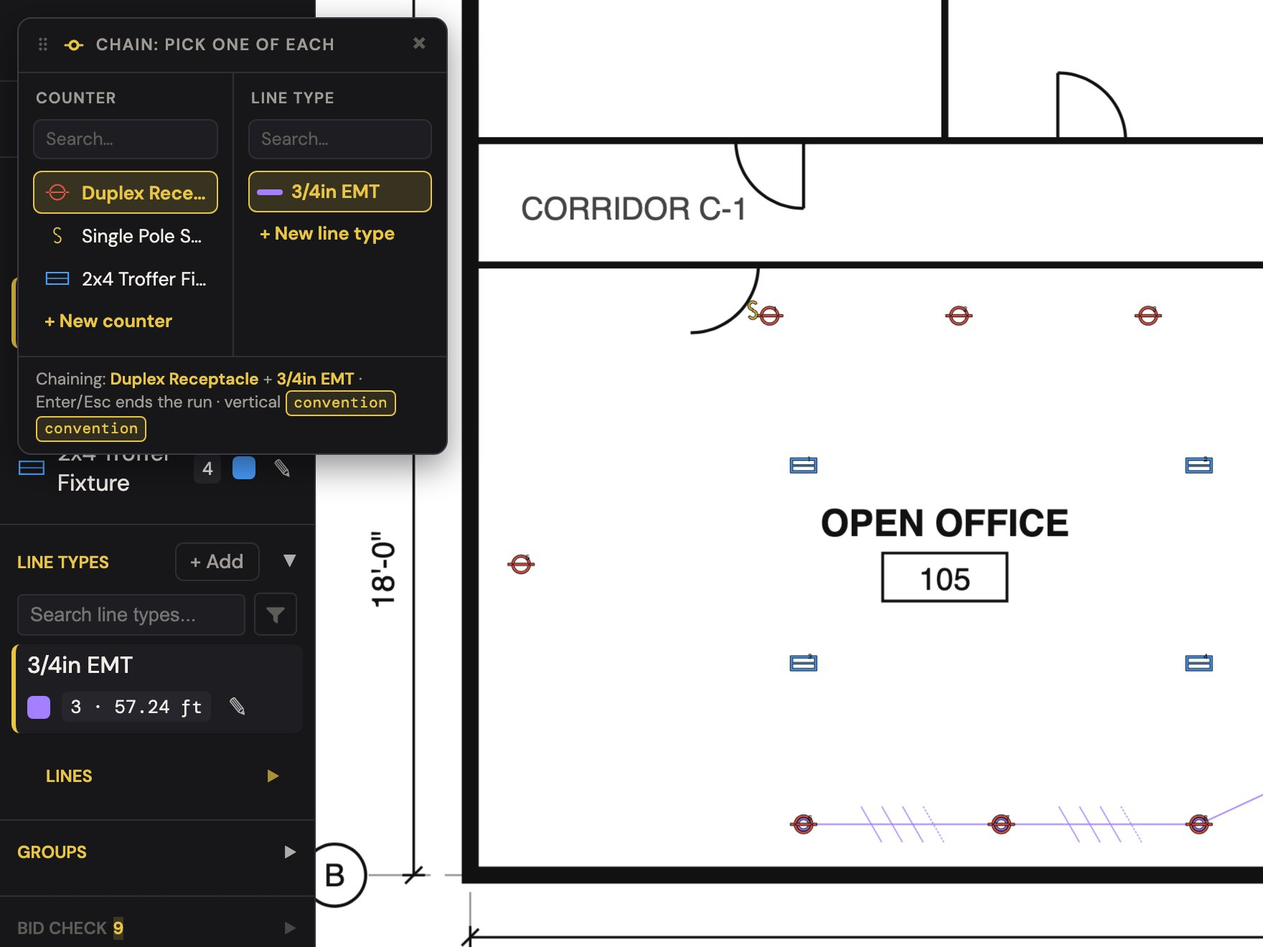
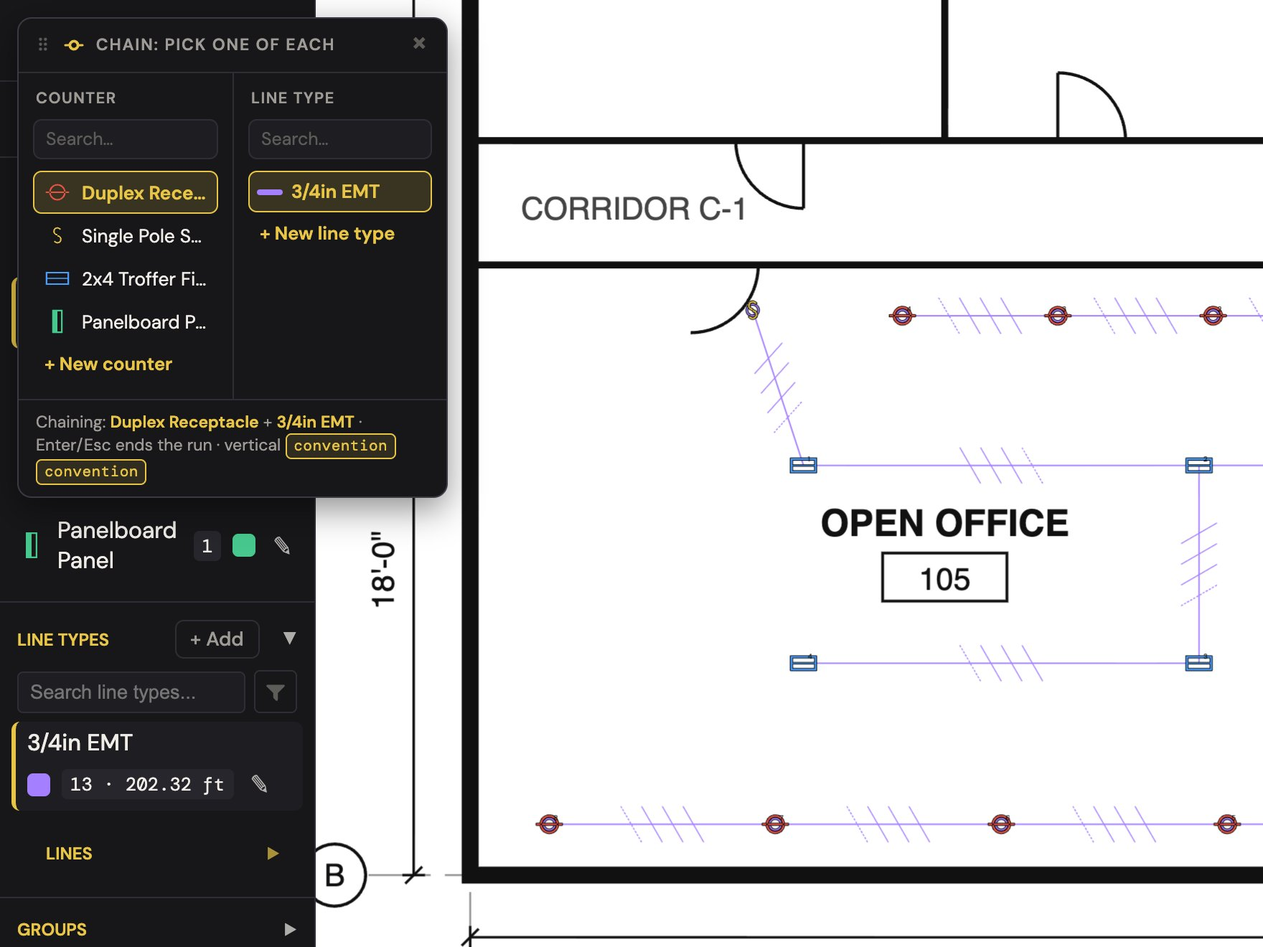
chore(landing): the spotlight frames follow the films again
Punch row SPOTLIGHT-SYNC. build-screenshots.js seeds the electrical and
HVAC films' layouts point for point (three circuits off LP-1; the full
floor off RTU-1, its duct traced with real clicks), the twelve frames
are re-cut with --set spotlight, and six captions in index.html quote
the new frames. No film render.

diff --git a/scripts/build-screenshots.js b/scripts/build-screenshots.js
@@ -979,7 +979,7 @@ async function overseerBoardSetup(page) {
 // the real app per trade, JPEG, a fixed 1200×750 window centred on the surface so the six
 // share one aspect on the page. `--set spotlight` builds them into img/spotlight/. The
 // setups seed what each trade's hero film makes on camera, same names and colours, so the
-// frames match the film above them. HVAC first (the film "Pounds, not feet").
+// frames match the film above them (SPOT-7: point for point, so the captions' numbers are the films').
 // ============================================================================
 // Each spotlight frame is a 4:3 window sized to its surface: `crop: { sel, w, h, ax, ay, ox, oy }`
 // aligns the window's (ax, ay) fraction point to the anchor element's (ax, ay) fraction point
@@ -989,11 +989,42 @@ const CROP_QUICK = { sel: '#counterModal .modal-card', w: 520, h: 390, ax: 0.5, 
 const CROP_BID = { sel: '#bidCheckSection', w: 560, h: 420, ax: 0, ay: 0, ox: -6, oy: -8 };                  // the checklist column, a sliver of plan beside it
 const CSS_BID = '.sidebar{width:420px}';                                                                     // wide enough that a check reads on one line
 
-// The office sheet's rooms and the HVAC main, in PDF points (the film's MAIN_H / rooms).
-const OPEN_OFFICE_105 = { x1: 159, y1: 358, x2: 412.5, y2: 520 };
-const CONFERENCE_103 = { x1: 540, y1: 145, x2: 652.5, y2: 325 };
-const DIFFUSERS = [[200, 457], [268, 457], [336, 457], [404, 457]];
-const MAIN_PTS = [[164, 452], [240, 452], [320, 452], [406, 452]];
+// The office plan is drawn at 12 px/ft and placed at (60, 70) × 0.75 on its sheet: the hero
+// films' B(), so a film's plan coordinates can be quoted here as they stand.
+const PB = (x, y) => [60 + 0.75 * x, 70 + 0.75 * y];
+// The HVAC film's "complete the floor" layout, point for point (SPOTLIGHT-SYNC, 2026-09-20), so
+// the frames quote the film's numbers: six rooms boxed, sixteen 150 CFM diffusers, ONE supply
+// main off RTU-1 (3,000 CFM, 0.8 in. w.g.) down the corridor with a branch into each room, the
+// return main, the stat, and EF-1 on the restrooms.
+const roomRect = (x1, y1, x2, y2) => ({ x1: PB(x1, y1)[0], y1: PB(x1, y1)[1], x2: PB(x2, y2)[0], y2: PB(x2, y2)[1] });
+const CONFERENCE_103 = roomRect(640, 100, 790, 340);
+const ROOMS_H = [
+  { name: 'OPEN OFFICE', type: 'office', color: '#e85447', r: roomRect(132, 384, 470, 600) },
+  { name: 'LOBBY', type: 'office', color: '#4a9eff', r: roomRect(132, 100, 300, 340) },
+  { name: 'OFFICE 101', type: 'office', color: '#e8c547', r: roomRect(300, 100, 470, 340) },
+  { name: 'OFFICE 102', type: 'office', color: '#47c88e', r: roomRect(470, 100, 640, 340) },
+  { name: 'CONFERENCE', type: 'conference', color: '#a47fff', r: CONFERENCE_103 },
+  { name: 'BREAK', type: 'break', color: '#ff7f50', r: roomRect(790, 100, 940, 340) },
+];
+const Y_SUP = 356, Y_RET = 379;   // the supply main and the return main, side by side in the corridor
+const RTU_SPOT = PB(905, Y_SUP);
+const DIFFUSERS = [[420, 502], [340, 502], [260, 502], [180, 502], [228, 292], [228, 192], [397, 292], [397, 192], [567, 292], [567, 192], [727, 300], [727, 228], [727, 156], [877, 300], [877, 228], [877, 162]].map((p) => PB(...p));
+const TRUNK_H = [[905, Y_SUP], [865, Y_SUP], [715, Y_SUP], [555, Y_SUP], [440, Y_SUP], [385, Y_SUP], [216, Y_SUP], [216, 170]].map((p) => PB(...p));
+const TRUNK_STEPS_H = [null, [22, 16], [20, 14], [16, 14], [16, 8], [12, 8]];   // the size past each takeoff (index = the vertex it follows)
+const BRANCHES_H = [
+  { size: [12, 10], pts: [[865, Y_SUP], [865, 150]] },    // Break
+  { size: [12, 10], pts: [[715, Y_SUP], [715, 150]] },    // Conference
+  { size: [12, 8], pts: [[555, Y_SUP], [555, 186]] },     // Office 102
+  { size: [12, 8], pts: [[385, Y_SUP], [385, 186]] },     // Office 101
+  { size: [12, 8], suggest: true, pts: [[440, Y_SUP], [440, 490], [176, 490]] },   // the open office: sized by S, which reads this room's 600 CFM
+].map((b) => ({ ...b, pts: b.pts.map((p) => PB(...p)) }));
+const RETURNS_H = [[690, Y_RET], [780, Y_RET]].map((p) => PB(...p));
+const RETURN_MAIN_H = [[678, Y_RET], [905, Y_RET]].map((p) => PB(...p));
+const STAT_SPOT_H = PB(300, 392);
+const EF_SPOT = PB(905, 508);
+const EXH_GRILLES_H = [[850, 520], [670, 520], [525, 520]].map((p) => PB(...p));
+const EXH_RUN_H = [[905, 508], [513, 508]].map((p) => PB(...p));
+const CAM_FLOOR_H = { x1: 146, y1: 132, x2: 778, y2: 530 };   // the whole floor, the film's rooms camera
 
 // Frame a region of the sheet (PDF points) in the canvas wrapper: the film's camera, so the
 // two trace frames show the open office at the size the hero film shows it.
@@ -1021,71 +1052,124 @@ async function movePlanPt(page, x, y) {
   await page.waitForTimeout(220);
 }
 
-// Trade hvac on the office sheet; OPEN OFFICE 105 boxed (office, 9 ft, deck 12); a 150 CFM
-// diffuser four times on the main's line; the system RTU-1 at 2,000 CFM, active.
-async function hvacBase(page) {
+// Trade hvac on the office sheet, as the film leaves it before the first duct: the rooms boxed
+// (9 ft ceilings, the deck at 12), the systems RTU-1 and EF-1 with their units placed, every
+// diffuser, return, exhaust grille and the stat in its group. `opts.skipRoom` leaves one room
+// unboxed (the Room Size frame drags it for real).
+async function hvacBase(page, opts = {}) {
   await page.evaluate(() => { window.App.pageTextItems && window.App.pageTextItems(0); });
   await page.waitForFunction(() => (window.App.peekPageTextItems(0) || []).length > 0, { timeout: 15000 }).catch(() => {});
-  await page.evaluate(({ pw, room, dif }) => {
+  await page.evaluate(({ pw, o, rooms, rtuAt, dif, rets, stat, efAt, exh }) => {
     const s = window.state, App = window.App, uid = () => App.uid();
     s.pages[0].scale = { pixelsPerUnit: 9, unit: 'ft', label: '1/8" = 1\'' };
     App.setProjectTrade && App.setProjectTrade('hvac', { remember: false, route: 'tour' });
     s.groupsEnabled = true;
     const ann = s.pages[0].canvases[0].annotations;
-    const open = uid();
-    s.rooms.push({ id: open, name: 'OPEN OFFICE 105', color: '#e85447', roomType: 'office', nameFromPlan: true });
-    ann.roomBoxes.push({ id: uid(), x1: room.x1, y1: room.y1, x2: room.x2, y2: room.y2, heightFt: 9, roomId: open });
+    rooms.filter((rm) => rm.name !== o.skipRoom).forEach((rm) => {
+      const id = uid();
+      s.rooms.push({ id, name: rm.name, color: rm.color, roomType: rm.type, nameFromPlan: true });
+      ann.roomBoxes.push({ id: uid(), x1: rm.r.x1, y1: rm.r.y1, x2: rm.r.x2, y2: rm.r.y2, heightFt: 9, roomId: id });
+    });
     const ci = (name) => ((App.getEffectiveCustomIcons() || []).find((i) => i.name === name) || {}).value;
-    const d = { id: uid(), name: '12x12 Supply Diffuser', icon: (App.cfmDefaultIcon && App.cfmDefaultIcon()) || ci('Supply Diffuser') || App.getOrderedIcons()[0].value, color: '#e8c547', cfm: 150 };
-    s.counters.push(d);
-    ann.counterMarkers[d.id] = dif.map(([x, y]) => ({ x, y, id: uid(), group: null }));
-    const rtu = { id: uid(), name: 'RTU-1', color: '#2e86de', equipmentTag: 'RTU-1', capacityCfm: 2000 };
-    s.groups.push(rtu); s.activeGroupId = rtu.id;
-    ann.legend = { x: pw - 210, y: 16, w: 195, h: 60, userResized: false };
+    const icon = (sym, fallback) => (App.tradeIconForType && App.tradeIconForType('hvac', sym)) || ci(fallback || sym) || App.getOrderedIcons()[0].value;
+    const rtu = { id: uid(), name: 'RTU-1', color: '#2e86de', equipmentTag: 'RTU-1', capacityCfm: 3000, espInWg: 0.8 };
+    const ef = { id: uid(), name: 'EF-1', color: '#a47fff', equipmentTag: 'EF-1', capacityCfm: 300 };
+    s.groups.push(rtu, ef); s.activeGroupId = rtu.id;
+    const unit = { id: uid(), name: 'RTU-1', icon: icon('RTU'), color: '#e8c547' };
+    const d = { id: uid(), name: '12x12 Supply Diffuser', icon: (App.cfmDefaultIcon && App.cfmDefaultIcon()) || icon('Supply Diffuser'), color: '#e85447', cfm: 150 };
+    const ret = { id: uid(), name: '24x24 Return Grille', icon: icon('Return Grille'), color: '#4a9eff' };
+    const tstat = { id: uid(), name: 'Thermostat', icon: icon('Thermostat'), color: '#47c88e' };
+    const fan = { id: uid(), name: 'EF-1', icon: icon('RTU'), color: '#a47fff' };
+    const eg = { id: uid(), name: '8" Exhaust Grille', icon: icon('Exhaust Grille'), color: '#a47fff', cfm: 75 };
+    s.counters.push(unit, d, ret, tstat, fan, eg);
+    const marks = (pts, g) => pts.map(([x, y]) => ({ x, y, id: uid(), group: g.id }));
+    ann.counterMarkers[unit.id] = marks([rtuAt], rtu);
+    ann.counterMarkers[d.id] = marks(dif, rtu);
+    ann.counterMarkers[ret.id] = marks(rets, rtu);
+    ann.counterMarkers[tstat.id] = marks([stat], rtu);
+    ann.counterMarkers[fan.id] = marks([efAt], ef);
+    ann.counterMarkers[eg.id] = marks(exh, ef);
+    s.counterSettings = Object.assign({}, s.counterSettings, { size: 40, outlineSize: 2 });
+    // A full floor's legend (devices, rooms, every duct size) grows down over the Break room and
+    // takes the clicks that trace its branch; no HVAC frame is about the legend, so it is off.
+    s.showLegendOverlay = false;
     if (App.setDuctDeckHeight) App.setDuctDeckHeight(12);
+    window.__spot = { rtu: rtu.id, ef: ef.id };
     App.renderPdf(); App.updateUI(); App.renderAnnotations();
-  }, { pw: PLAN_W, room: OPEN_OFFICE_105, dif: DIFFUSERS });
+  }, { pw: PLAN_W, o: opts, rooms: ROOMS_H, rtuAt: RTU_SPOT, dif: DIFFUSERS, rets: RETURNS_H, stat: STAT_SPOT_H, efAt: EF_SPOT, exh: EXH_GRILLES_H });
   await fitPlan(page);
   await page.waitForTimeout(350);
 }
-async function armDuctRun(page) {
-  await page.evaluate(() => document.getElementById('ductBtn').click());
+// U's dialog, the way the film fills it: the size typed, the airside picked, Start Tracing.
+async function armDuctRun(page, size, airside) {
+  await page.evaluate(() => { const a = document.activeElement; if (a && a.blur) a.blur(); });
+  await page.keyboard.press('u');   // the film's key; the header button toggles the tool off once it is armed
   await page.waitForSelector('#ductCreateModal.visible', { timeout: 5000 });
+  if (airside) await page.locator('#ductCreateAirside [data-airside="' + airside + '"]').click();
+  if (size) { await page.locator('#ductCreateW').fill(String(size[0])); await page.locator('#ductCreateH').fill(String(size[1])); }
   await page.evaluate(() => document.getElementById('ductCreateStart').click());
   await page.waitForFunction(() => !!window.state.drawingDuct, { timeout: 5000 });
 }
 const stepRect = (page) => page.evaluate(() => { const App = window.App; const sug = App.getDuctDraftSuggestion && App.getDuctDraftSuggestion(); const next = sug && (sug.rectSize || sug.size); if (next && App.applyDuctSizeStep) App.applyDuctSizeStep(next); App.renderAnnotations(); });
-// Two vertices placed and the cursor on the third: the chip at the cursor, the hint card above the footer.
+const stepTo = (page, [w, h]) => page.evaluate(([w, h]) => { window.App.applyDuctSizeStep({ kind: 'rect', w, h }); window.App.renderAnnotations(); }, [w, h]);
+const finishRun = async (page) => {
+  await page.evaluate(() => { const App = window.App; App.finishDuctRun && App.finishDuctRun(); window.state.tool = App.TOOL.NONE; App.updateUI(); App.renderAnnotations(); });
+  await page.waitForTimeout(200);
+};
+const setSystem = (page, key) => page.evaluate((k) => { window.state.activeGroupId = window.__spot[k]; window.App.updateUI(); }, key);
+// The main leaving the unit at 26×16, its first leg placed and the cursor on the next takeoff:
+// the chip at the cursor, and the hint card above the footer reading the whole floor's 2,400 CFM
+// (no branch has taken its air yet) and the size the friction rate suggests for it.
 async function hvacDraft(page) {
   await hvacBase(page);
-  await frameRegion(page, CAM_OPEN_OFFICE);
-  await armDuctRun(page);
-  await clickPlanPt(page, ...MAIN_PTS[0]);
-  await clickPlanPt(page, ...MAIN_PTS[1]);
-  await movePlanPt(page, ...MAIN_PTS[2]);
+  await frameRegion(page, CAM_FLOOR_H);
+  await armDuctRun(page, [26, 16]);
+  await clickPlanPt(page, ...TRUNK_H[0]);
+  await clickPlanPt(page, ...TRUNK_H[1]);
+  await movePlanPt(page, ...TRUNK_H[2]);
 }
-// The main committed: 24×12 → 16×8 → 12×8 with two transitions, the diffusers attached.
+// The floor's duct, as the film traces it: the main stepping down past each takeoff, a branch
+// into each room (the last sized by S), the return main, the exhaust run off EF-1.
 async function hvacRun(page) {
   await hvacBase(page);
-  await armDuctRun(page);
-  await clickPlanPt(page, ...MAIN_PTS[0]);
-  await clickPlanPt(page, ...MAIN_PTS[1]);
-  await stepRect(page);
-  await clickPlanPt(page, ...MAIN_PTS[2]);
-  await stepRect(page);
-  await clickPlanPt(page, ...MAIN_PTS[3]);
-  await page.evaluate(() => { const App = window.App; App.finishDuctRun && App.finishDuctRun(); window.state.tool = App.TOOL.NONE; App.updateUI(); App.renderAnnotations(); });
+  await armDuctRun(page, [26, 16], 'supply');
+  for (let k = 0; k < TRUNK_H.length; k++) {
+    await clickPlanPt(page, ...TRUNK_H[k]);
+    if (TRUNK_STEPS_H[k]) await stepTo(page, TRUNK_STEPS_H[k]);
+  }
+  await finishRun(page);
+  for (const b of BRANCHES_H) {
+    await armDuctRun(page, b.size);
+    await clickPlanPt(page, ...b.pts[0]);
+    if (b.suggest) await stepRect(page);
+    for (const p of b.pts.slice(1)) await clickPlanPt(page, ...p);
+    await finishRun(page);
+  }
+  await armDuctRun(page, [24, 14], 'return');
+  for (const p of RETURN_MAIN_H) await clickPlanPt(page, ...p);
+  await finishRun(page);
+  await setSystem(page, 'ef');
+  await armDuctRun(page, [12, 6], 'exhaust');
+  for (const p of EXH_RUN_H) await clickPlanPt(page, ...p);
+  await finishRun(page);
+  await setSystem(page, 'rtu');
   await page.waitForTimeout(300);
 }
 
 // --- electrical, "Circuit 7": what the film makes on camera, seeded -------------------
-const RECEPT_E = [[238.5, 371.5], [288.75, 371.5], [339, 371.5], [389.25, 371.5], [172.5, 437.5]];   // north wall east of the door, then the west wall
-const SWITCH_E = [234, 370];
-const LIGHTS_E = [[247.5, 411.25], [352.5, 411.25], [247.5, 463.75], [352.5, 463.75]];
-const CHAIN_E = [[247.5, 506.5], [300, 506.5], [352.5, 506.5]];   // along the south wall
-const LP1_E = [492, 442];                                          // panel LP-1 on the janitor's east wall
+// SPOTLIGHT-SYNC (2026-09-20): the film's "complete the room" layout, point for point (its
+// C7_RECEPTS / C9_RECEPTS / LIGHT_SPOTS_E / HOME_*), so the frames quote the film's numbers:
+// three circuits off LP-1, each chained device to device with a square, flagged home run.
+const C7_RECEPTS_E = [[450, 402], [395, 402], [340, 402], [285, 402]].map((p) => PB(...p));   // circuit 7: the north wall, from the panel end west
+const C9_RECEPTS_E = [[400, 582], [320, 582], [240, 582], [160, 582]].map((p) => PB(...p));   // circuit 9: the south wall
+const SWITCH_E = PB(232, 400);
+const LIGHTS_E = [[250, 455], [390, 455], [390, 525], [250, 525]].map((p) => PB(...p));       // a 2 × 2 troffer grid, in chain order from the switch
+const HOME_7_E = [[450, 402], [576, 402], [576, 462]].map((p) => PB(...p));
+const HOME_9_E = [[400, 582], [552, 582], [552, 541], [570, 541]].map((p) => PB(...p));
+const HOME_11_E = [[390, 455], [540, 455], [540, 497], [570, 497]].map((p) => PB(...p));
+const LP1_E = PB(576, 496);                                                                   // panel LP-1 on the janitor's east wall
 async function electricalBase(page) {
-  await page.evaluate(({ pw, rec, sw, lights, chain, lp1 }) => {
+  await page.evaluate(({ pw, c7, c9, sw, lights, h7, h9, h11, lp1 }) => {
     const s = window.state, App = window.App, uid = () => App.uid();
     s.pages[0].scale = { pixelsPerUnit: 9, unit: 'ft', label: '1/8" = 1\'' };
     App.setProjectTrade && App.setProjectTrade('electrical', { remember: false, route: 'tour' });
@@ -1096,26 +1180,32 @@ async function electricalBase(page) {
     const r = { id: uid(), name: 'Duplex Receptacle', icon: icon('Duplex', 'Duplex Receptacle'), color: '#e85447', mountHeightIn: 18 };
     const w = { id: uid(), name: 'Single Pole Switch', icon: icon('Single Pole', 'Single Pole Switch'), color: '#e8c547', mountHeightIn: 48 };
     const l = { id: uid(), name: '2x4 Troffer Fixture', icon: icon('2x4 Troffer', '2x4 Troffer'), color: '#4a9eff' };
-    s.counters.push(r, w, l);
+    const pnl = { id: uid(), name: 'Panelboard Panel', icon: icon('Panelboard', 'Panelboard'), color: '#47c88e', panelName: 'LP-1' };   // a counter with a panel name IS the panel mark
+    s.counters.push(r, w, l, pnl);
+    ann.counterMarkers[pnl.id] = [{ x: lp1[0], y: lp1[1], id: uid(), group: null }];
     const cm = window.ConductorModel;
     const emt = { id: uid(), name: '3/4in EMT', color: '#a47fff', curveStyle: 'straight', raceway: { kind: 'EMT', size: '3/4"' }, conductors: cm ? cm.parseConductorSpec('3 #12 THHN + 1 #12 G').conductors : [] };
     s.lineTypes.push(emt);
-    const g = { id: uid(), name: 'Circuit 7', color: '#c8963a', panel: 'LP-1', circuit: '7', loadAmps: 12 };
-    s.groups.push(g); s.activeGroupId = g.id;
-    ann.counterMarkers[r.id] = rec.map(([x, y]) => ({ x, y, id: uid(), group: g.id }));
-    ann.counterMarkers[w.id] = [{ x: sw[0], y: sw[1], id: uid(), group: g.id }];
-    ann.counterMarkers[l.id] = lights.map(([x, y]) => ({ x, y, id: uid(), group: g.id }));
     s.counterSettings = Object.assign({}, s.counterSettings, { size: 40, outlineSize: 2 });
-    // the chain, device to device, each click writing its drop (ceiling 10 − mount 1.5 + make-up 1)
-    s.activeCounterType = r.id; s.activeLineTypeId = emt.id; s.tool = App.TOOL.CHAIN; s.chainStart = null;
-    chain.forEach(([x, y]) => App.commitChainPoint({ x, y }));
-    s.chainStart = null; s.tool = App.TOOL.NONE;
-    // the home run to LP-1 on the same conduit
-    ann.quickLines.push({ id: uid(), x1: chain[2][0], y1: chain[2][1], x2: lp1[0], y2: lp1[1], lineTypeId: emt.id, color: emt.color, group: g.id, homerun: true });
+    // One circuit: the group with its panel, number and load; the chain, device to device, each
+    // click writing its drop (ceiling 10 − mount + make-up 1); the home run square to LP-1, flagged.
+    const circuit = (name, number, amps, legs, home) => {
+      const g = { id: uid(), name, color: '#c8963a', panel: 'LP-1', circuit: number, loadAmps: amps };
+      s.groups.push(g); s.activeGroupId = g.id;
+      s.activeLineTypeId = emt.id; s.tool = App.TOOL.CHAIN; s.chainStart = null;
+      legs.forEach(([counter, pts]) => { s.activeCounterType = counter.id; pts.forEach(([x, y]) => App.commitChainPoint({ x, y })); });   // a second device keeps the chain's anchor
+      s.chainStart = null; s.tool = App.TOOL.NONE;
+      ann.polylines.push({ id: uid(), name: name + ' home run', color: emt.color, points: home.map(([x, y]) => ({ x, y })), closed: false, lineTypeId: emt.id, group: g.id, homerun: true });
+      return g;
+    };
+    const g7 = circuit('Circuit 7', '7', 6, [[r, c7]], h7);
+    circuit('Circuit 9', '9', 6, [[r, c9]], h9);
+    circuit('Circuit 11', '11', 2, [[w, [sw]], [l, lights]], h11);
+    s.activeGroupId = g7.id;
     ann.legend = { x: pw - 210, y: 16, w: 195, h: 60, userResized: false };
     window.__spot = { r: r.id, emt: emt.id };
     App.markProjectDirty(); App.renderPdf(); App.updateUI(); App.renderAnnotations();
-  }, { pw: PLAN_W, rec: RECEPT_E, sw: SWITCH_E, lights: LIGHTS_E, chain: CHAIN_E, lp1: LP1_E });
+  }, { pw: PLAN_W, c7: C7_RECEPTS_E, c9: C9_RECEPTS_E, sw: SWITCH_E, lights: LIGHTS_E, h7: HOME_7_E, h9: HOME_9_E, h11: HOME_11_E, lp1: LP1_E });
   await fitPlan(page);
   await page.waitForTimeout(350);
 }
@@ -1342,7 +1432,7 @@ const SPOTLIGHT = [
   {
     name: 'hvac-2-room-size', dir: 'img/spotlight', format: 'jpeg', crop: { w: 747, h: 560, ax: 0.5, ay: 0, oy: 22 }, clip: '#roomBoxModal .modal-card',
     async setup(page) {
-      await hvacBase(page);
+      await hvacBase(page, { skipRoom: 'CONFERENCE' });
       await page.evaluate(() => { const s = window.state, App = window.App; s.tool = App.TOOL.ROOM; s.roomBoxStart = null; App.updateUI(); });
       const a = await planPoint(page, CONFERENCE_103.x1 / PLAN_W, CONFERENCE_103.y1 / PLAN_H);
       const b = await planPoint(page, CONFERENCE_103.x2 / PLAN_W, CONFERENCE_103.y2 / PLAN_H);
@@ -1357,7 +1447,7 @@ const SPOTLIGHT = [
       await page.waitForTimeout(250);
     },
   },
-  { name: 'hvac-3-trace', dir: 'img/spotlight', format: 'jpeg', crop: { sel: '#ductHintCard', w: 800, h: 600, ax: 0.5, ay: 1, ox: -100, oy: 16 }, clip: '#canvasWrapper', setup: hvacDraft },
+  { name: 'hvac-3-trace', dir: 'img/spotlight', format: 'jpeg', crop: { sel: '#ductHintCard', w: 880, h: 660, ax: 0.5, ay: 1, ox: 140, oy: 16 }, clip: '#canvasWrapper', setup: hvacDraft },
   {
     name: 'hvac-4-size-popover', dir: 'img/spotlight', format: 'jpeg', crop: { sel: '#ductSizePopover', w: 693, h: 520, ax: 1, ay: 0.5, ox: 16 }, clip: '#canvasWrapper',
     async setup(page) {

diff --git a/index.html b/index.html
@@ -359,9 +359,9 @@
               <figure class="spot"><button type="button" class="spot-open" aria-label="Enlarge: Devices arrive with their mount height."><img src="/img/spotlight/electrical-1-quick-tab.jpg" width="1040" height="780" loading="lazy" alt="CountTooling, electrical: Devices arrive with their mount height."></button><figcaption><b>Devices arrive with their mount height.</b><span>A duplex receptacle at 18 in AFF is a profile default, so the drop to every box is in the run before you draw it.</span></figcaption></figure>
               <figure class="spot"><button type="button" class="spot-open" aria-label="Enlarge: Chain device to device; the run draws itself."><img src="/img/spotlight/electrical-2-chain.jpg" width="1760" height="1320" loading="lazy" alt="CountTooling, electrical: Chain device to device; the run draws itself."></button><figcaption><b>Chain device to device; the run draws itself.</b><span>Pick a counter and a line type, then click device to device. Every click writes its drop and the EMT footage grows with it.</span></figcaption></figure>
               <figure class="spot"><button type="button" class="spot-open" aria-label="Enlarge: List the wire once; every run carries it."><img src="/img/spotlight/electrical-3-conduit.jpg" width="1050" height="788" loading="lazy" alt="CountTooling, electrical: List the wire once; every run carries it."></button><figcaption><b>List the wire once; every run carries it.</b><span>3/4 in EMT with 3 #12 THHN + 1 #12 THHN ground on the line type. Four conductors ride every run, and a homerun toggle marks the run to the panel.</span></figcaption></figure>
-              <figure class="spot"><button type="button" class="spot-open" aria-label="Enlarge: Wire that cannot drift from the conduit."><img src="/img/spotlight/electrical-4-wire.jpg" width="1120" height="840" loading="lazy" alt="CountTooling, electrical: Wire that cannot drift from the conduit."></button><figcaption><b>Wire that cannot drift from the conduit.</b><span>#12 THHN is derived from the runs, not marked separately: 3 lines and 57.24 ft of EMT become 171.73 ft of wire plus 57.24 ft of green, every time.</span></figcaption></figure>
-              <figure class="spot"><button type="button" class="spot-open" aria-label="Enlarge: Conduit fill and voltage drop, checked on the plan."><img src="/img/spotlight/electrical-5-bid-check.jpg" width="1120" height="840" loading="lazy" alt="CountTooling, electrical: Conduit fill and voltage drop, checked on the plan."></button><figcaption><b>Conduit fill and voltage drop, checked on the plan.</b><span>NEC Chapter 9 fill (10%) and NEC 210.19 voltage drop to the farthest device (2.3% at 120 V) compute from the runs. Devices no run reaches are flagged, not hidden.</span></figcaption></figure>
-              <figure class="spot"><button type="button" class="spot-open" aria-label="Enlarge: Open in TakeoffTooling for assemblies and pricing."><img src="/img/spotlight/electrical-6-handoff.jpg" width="1280" height="960" loading="lazy" alt="CountTooling, electrical: Open in TakeoffTooling for assemblies and pricing."></button><figcaption><b>Open in TakeoffTooling for assemblies and pricing.</b><span>One click carries the counts and conduit into the estimate, 6 rows here, and an open Bid Check item travels with it so nothing is priced unchecked.</span></figcaption></figure>
+              <figure class="spot"><button type="button" class="spot-open" aria-label="Enlarge: Wire that cannot drift from the conduit."><img src="/img/spotlight/electrical-4-wire.jpg" width="1120" height="840" loading="lazy" alt="CountTooling, electrical: Wire that cannot drift from the conduit."></button><figcaption><b>Wire that cannot drift from the conduit.</b><span>#12 THHN is derived from the runs, not marked separately: circuit 11's 5 lines and 59.49 ft of EMT become 178.47 ft of wire plus 59.49 ft of green, every time.</span></figcaption></figure>
+              <figure class="spot"><button type="button" class="spot-open" aria-label="Enlarge: Conduit fill and voltage drop, checked on the plan."><img src="/img/spotlight/electrical-5-bid-check.jpg" width="1120" height="840" loading="lazy" alt="CountTooling, electrical: Conduit fill and voltage drop, checked on the plan."></button><figcaption><b>Conduit fill and voltage drop, checked on the plan.</b><span>NEC Chapter 9 fill (10%) and NEC 210.19 voltage drop to the farthest device on each circuit (1.3%, 1.5% and 0.3% at 120 V) compute from the runs. Devices no run reaches are flagged, not hidden.</span></figcaption></figure>
+              <figure class="spot"><button type="button" class="spot-open" aria-label="Enlarge: Open in TakeoffTooling for assemblies and pricing."><img src="/img/spotlight/electrical-6-handoff.jpg" width="1280" height="960" loading="lazy" alt="CountTooling, electrical: Open in TakeoffTooling for assemblies and pricing."></button><figcaption><b>Open in TakeoffTooling for assemblies and pricing.</b><span>One click carries the counts and conduit into the estimate, 14 rows here, and an open Bid Check item travels with it so nothing is priced unchecked.</span></figcaption></figure>
             </div>
           </div>
           <div class="spotlight-set" data-trade="hvac" aria-label="HVAC, surface by surface">
@@ -370,10 +370,10 @@
             <div class="spotlight-grid">
               <figure class="spot"><button type="button" class="spot-open" aria-label="Enlarge: A diffuser that carries its CFM."><img src="/img/spotlight/hvac-1-quick-tab.jpg" width="1040" height="780" loading="lazy" alt="CountTooling, HVAC: A diffuser that carries its CFM."></button><figcaption><b>A diffuser that carries its CFM.</b><span>A 12×12 supply diffuser at 150 CFM. The air is on the count, so the rooms and the mains can be checked against it.</span></figcaption></figure>
               <figure class="spot"><button type="button" class="spot-open" aria-label="Enlarge: Box a room; get the air it needs."><img src="/img/spotlight/hvac-2-room-size.jpg" width="1494" height="1120" loading="lazy" alt="CountTooling, HVAC: Box a room; get the air it needs."></button><figcaption><b>Box a room; get the air it needs.</b><span>The plan names the room, you give the ceiling height, and it answers with 251 ft², 2,256 ft³ and a target of 376 CFM from the room type.</span></figcaption></figure>
-              <figure class="spot"><button type="button" class="spot-open" aria-label="Enlarge: Trace the main and see the air still to serve."><img src="/img/spotlight/hvac-3-trace.jpg" width="1600" height="1200" loading="lazy" alt="CountTooling, HVAC: Trace the main and see the air still to serve."></button><figcaption><b>Trace the main and see the air still to serve.</b><span>Each segment shows the CFM downstream, 450 here, and the size the friction rate suggests, 12 in round or 16×8, as you draw.</span></figcaption></figure>
+              <figure class="spot"><button type="button" class="spot-open" aria-label="Enlarge: Trace the main and see the air still to serve."><img src="/img/spotlight/hvac-3-trace.jpg" width="1760" height="1320" loading="lazy" alt="CountTooling, HVAC: Trace the main and see the air still to serve."></button><figcaption><b>Trace the main and see the air still to serve.</b><span>Each segment shows the CFM downstream, 2,400 here, and the size the friction rate suggests, 22 in round or 26×16, as you draw.</span></figcaption></figure>
               <figure class="spot"><button type="button" class="spot-open" aria-label="Enlarge: Press S; the size is one tap."><img src="/img/spotlight/hvac-4-size-popover.jpg" width="1386" height="1040" loading="lazy" alt="CountTooling, HVAC: Press S; the size is one tap."></button><figcaption><b>Press S; the size is one tap.</b><span>Suggested round or rectangular, step-downs a click away, custom if the engineer said so. Weight per foot follows the size.</span></figcaption></figure>
-              <figure class="spot"><button type="button" class="spot-open" aria-label="Enlarge: Straight duct by size and gauge; one bid weight."><img src="/img/spotlight/hvac-5-schedule.jpg" width="1360" height="1020" loading="lazy" alt="CountTooling, HVAC: Straight duct by size and gauge; one bid weight."></button><figcaption><b>Straight duct by size and gauge; one bid weight.</b><span>Gauge from a simplified SMACNA schedule, lb/ft cited to ASTM A653, the fittings you did not count, seam and waste. 174 lb for this run, one number for the bid.</span></figcaption></figure>
-              <figure class="spot"><button type="button" class="spot-open" aria-label="Enlarge: Every room served, the system within capacity."><img src="/img/spotlight/hvac-6-bid-check.jpg" width="1120" height="840" loading="lazy" alt="CountTooling, HVAC: Every room served, the system within capacity."></button><figcaption><b>Every room served, the system within capacity.</b><span>Rooms served, RTU-1 at 600 of 2,000 CFM, four flex drops within 6 ft, the deepest duct clearing a 36 in plenum. Computed from the take-off, cited by rule.</span></figcaption></figure>
+              <figure class="spot"><button type="button" class="spot-open" aria-label="Enlarge: Straight duct by size and gauge; one bid weight."><img src="/img/spotlight/hvac-5-schedule.jpg" width="1360" height="1020" loading="lazy" alt="CountTooling, HVAC: Straight duct by size and gauge; one bid weight."></button><figcaption><b>Straight duct by size and gauge; one bid weight.</b><span>Gauge from a simplified SMACNA schedule, lb/ft cited to ASTM A653, the fittings you did not count, seam and waste. 244 ft of straight duct is 1,082 lb on this floor, on the way to one number for the bid.</span></figcaption></figure>
+              <figure class="spot"><button type="button" class="spot-open" aria-label="Enlarge: Every room served, the system within capacity."><img src="/img/spotlight/hvac-6-bid-check.jpg" width="1120" height="840" loading="lazy" alt="CountTooling, HVAC: Every room served, the system within capacity."></button><figcaption><b>Every room served, the system within capacity.</b><span>Six rooms served, RTU-1 at 2,400 of 3,000 CFM, 19 flex drops within 6 ft, the deepest duct clearing a 36 in plenum. Computed from the take-off, cited by rule.</span></figcaption></figure>
             </div>
           </div>
       </div>

diff --git a/journeys/plans/LANDING-REFRESH.md b/journeys/plans/LANDING-REFRESH.md
@@ -603,6 +603,28 @@ the rest are new setups.
    trade's six, wheel / pinch / + − / double-click zoom to 5× about the pointer, drag pans, Escape
    or the backdrop closes and focus returns to the opener. Inline script beside the hero's, no
    library. Spec case in `landing-trade.spec.js`.
+7. **SPOT-7 · the frames follow the films again.** The films grew on 2026-09-20 ("complete the
+   room", "complete the floor") and the electrical and HVAC frames were still cut from their own
+   small takeoffs, so six captions quoted numbers the films no longer show. **DONE 2026-09-20**
+   (branch `claude/punch-spotlight-sync`, punch row SPOTLIGHT-SYNC closed): `electricalBase` seeds
+   the film's three circuits off LP-1 point for point (7 and 9 on the receptacle walls, 11 on the
+   switch and the troffers, each chained through `App.commitChainPoint` with a square polyline
+   home run flagged `homerun`, the panel a counter named LP-1), and `hvacBase` seeds the film's
+   floor (six rooms boxed, RTU-1 at 3,000 CFM and 0.8 in. w.g., EF-1, sixteen diffusers, the
+   returns, the stat, the exhaust grilles) while `hvacRun` traces the film's duct with real
+   clicks: the main stepping down past each takeoff, five branches (the last sized by S), the
+   return main, the exhaust run. A `PB()` helper quotes the films' plan coordinates as they
+   stand. The frames now read the films' numbers: 13 runs and 202 ft of EMT, voltage drop 1.3% /
+   1.5% / 0.3%, 14 rows to TakeoffTooling; 2,400 of 3,000 CFM, 19 flex drops, 244 ft of straight
+   duct. Hundredths differ from the films' reports (59.49 ft against 59.46), because the film
+   clicks at a different zoom; the captions quote the frames. Three gotchas for the next re-cut:
+   a full floor's legend grows down over the Break room and takes the clicks that trace its
+   branch, so the HVAC seed turns the legend off; the header's Duct button toggles the tool off
+   once it is armed, so a second run is started with the film's `U` key; and the trace frame
+   shows the first leg only, because until a branch is drawn every leg reads the whole 2,400 CFM
+   and a stepped-down chip beside that suggestion looks wrong. The trace frame is 880×660 now
+   (the unit and the hint card both in frame). The proof panel's Bid Check rows further down the
+   landing are marked illustrative and were left alone.
 
 About a day and a half in total. HVAC first because that is the visitor being prepared for.
 

diff --git a/PUNCHLIST.md b/PUNCHLIST.md
@@ -37,4 +37,3 @@ How agents add to this list: AGENTS.md, "Recording a to-do".
 | LEGEND-FACE | The sheet legend draws in DM Sans; the mock assumed a condensed face, which is most of the block's extra width (compact 203 pt wide vs the mock's 148). Vendoring one (Barlow Condensed, OFL) would narrow it about a fifth: a font in the shell and the precache, so a call first | decision | ⚑ call | — | [CHANGELOG.md](CHANGELOG.md#featlegend-the-sheet-legend-compact-by-default-for-electrical-and-hvac-2026-09-19) |
 | SHEET-TITLE | Read a sheet's number and title off its title block's text layer (the way D24 reads room names off the plan) and offer it as the page's default label, "P-101 · Plumbing Plan" instead of "sample-set.pdf, p24"; the label already flows to the sidebar, the report headings, the legend title and Prepare PDF's Page Name tab, so this is the reader plus one default | build | dev | — | [CHANGELOG.md](CHANGELOG.md#featreport-the-report-names-its-project-and-its-sheets-2026-09-20) |
 | CAPTION-DWELL | Hero films: a few captions sit under two seconds, too short to read even in the scroller: the closing hand-off line (about 1 s) and "Open sheet…" (1.2 s) on all three films, plus four quick HVAC beats (the unit placed, the third and fourth diffuser, the thermostat tick). Merge the opener into the sheet-naming line and hold the last caption a beat longer; one render per film (about ten minutes in all), then the landing's numbers follow from the chapters files | bug | agent | — | [CHANGELOG.md](CHANGELOG.md#featlanding-the-captions-are-a-three-line-scroller-the-page-draws-in-plain-sentences-2026-09-20) |
-| SPOTLIGHT-SYNC | Landing spotlight: the twelve electrical and HVAC frames are cut from their own small seeded takeoffs, so six captions quote numbers the films no longer show (HVAC "174 lb" and "600 of 2,000 CFM" against the film's 1,422 lb and 2,400 of 3,000; electrical "6 rows" and "2.3%"). Point `electricalBase` and the HVAC seed in scripts/build-screenshots.js at the films' layouts (three circuits; the full floor off RTU-1), re-cut the twelve frames with `--set spotlight`, update the six captions in index.html. No film render needed | chore | agent | — | [LANDING-REFRESH.md](journeys/plans/LANDING-REFRESH.md#the-trade-spotlight-plan-of-record-2026-09-18) |

diff --git a/CHANGELOG.md b/CHANGELOG.md
@@ -13,6 +13,31 @@ expired recovery UX" work occupies that slot).
 
 ---
 
+## chore(landing): the spotlight frames follow the films again (2026-09-20)
+
+Punch row **SPOTLIGHT-SYNC**, closed. The electrical and HVAC films grew into a whole room and a
+whole floor, and the twelve spotlight frames under them were still cut from their own small
+takeoffs, so six captions quoted numbers the films no longer show ("174 lb", "600 of 2,000 CFM",
+"6 rows", "2.3%").
+
+- **The seeds are the films' layouts.** scripts/build-screenshots.js: `electricalBase` builds the
+  three circuits off LP-1 (chained through `App.commitChainPoint`, each with a square home run
+  flagged `homerun`, the panel a counter named LP-1); `hvacBase` seeds the six rooms, RTU-1 at
+  3,000 CFM and 0.8 in. w.g., EF-1 and every device, and `hvacRun` traces the film's duct with
+  real clicks (the main stepping down, five branches, the return main, the exhaust run). `PB()`
+  quotes the films' plan coordinates as they stand.
+- **Twelve frames re-cut** with `--set spotlight`; no film render. They read the films' numbers
+  now: 13 runs and 202 ft of EMT, voltage drop 1.3% / 1.5% / 0.3% across circuits 7, 9 and 11,
+  14 rows to TakeoffTooling; six rooms served, 2,400 of 3,000 CFM, 19 flex drops, 244 ft of
+  straight duct at 1,082 lb. The trace frame shows the main leaving RTU-1 (880×660, so the unit
+  and the hint card are both in frame).
+- **Six captions in index.html** quote the new frames, and the trace frame's `width`/`height`
+  follow its new pixels (landing-assets.test.js pins them).
+
+Gotchas for the next re-cut are in journeys/plans/LANDING-REFRESH.md (SPOT-7): the legend over
+the Break room, the Duct button's toggle, and why the trace frame shows one leg. Cut with the
+system Chrome, since Playwright's browsers are not downloaded on this machine. Gates:
+landing-trade.spec.js and seo.spec.js (18 of 18), landing-assets.test.js, `npm run check`.
 ## chore(punchlist): DEV-AUTH closed, the cloud specs run green (2026-09-20)
 
 The test account signs in again: `config.local.js` carries new dev-auth credentials, and
